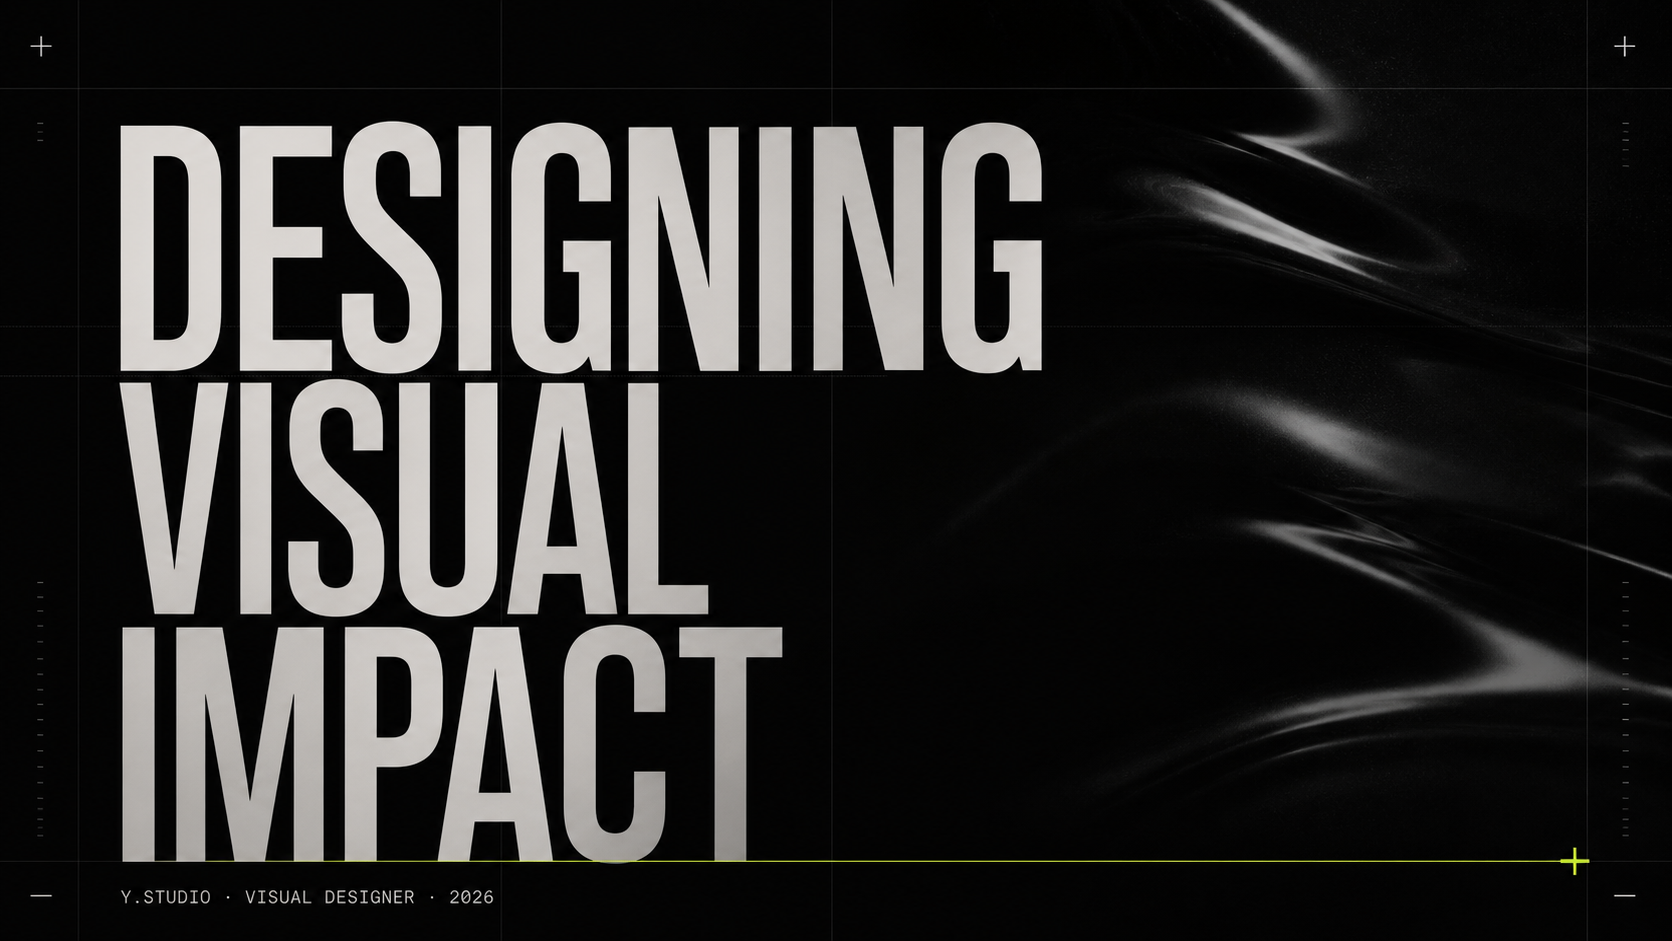
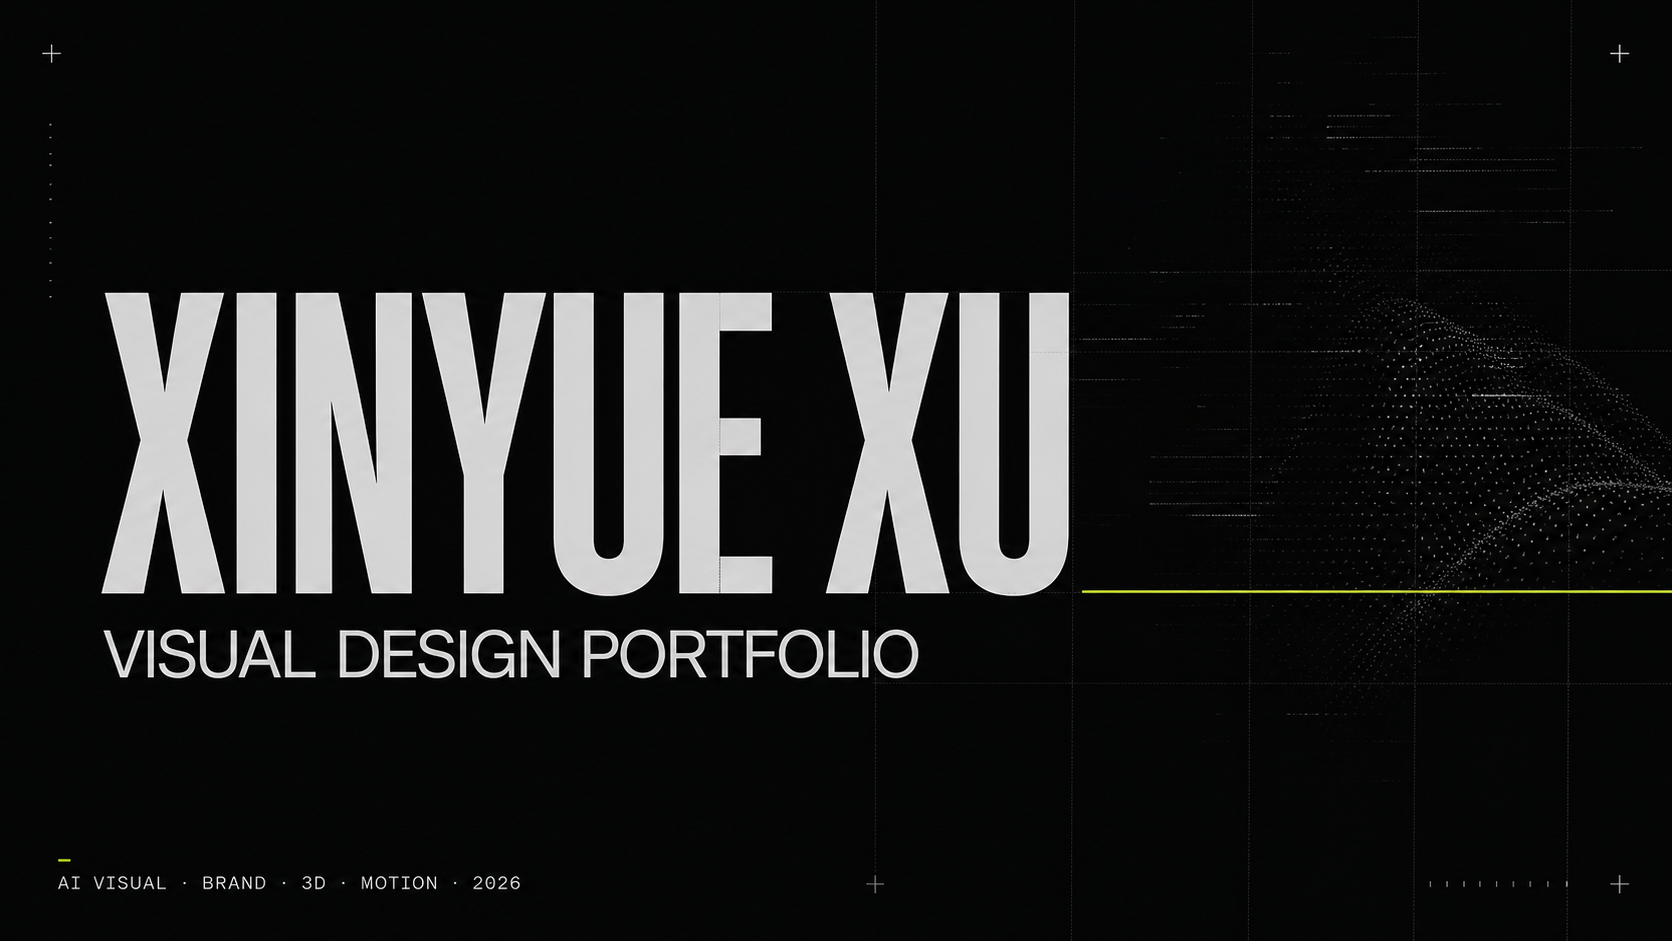
Personalize portfolio with resume content

diff --git a/app/page.tsx b/app/page.tsx
@@ -5,32 +5,39 @@ import { useEffect, useState } from "react";
 const projects = [
   {
     id: "01",
-    title: "NEBULA / 数字艺术节",
-    type: "VISUAL IDENTITY · 2025",
-    image: "https://assets.lummi.ai/assets/QmbDDrBcyWzhRj5HkeU3eM2N1CQVfAuMb2zAj3t34mfAsx",
+    title: "AI 电商视觉自动化系统",
+    type: "AI WORKFLOW · E-COMMERCE",
+    image: "/portfolio/ai-visual-system.jpg",
     size: "wide",
   },
   {
     id: "02",
-    title: "VOID / 时装视觉实验",
-    type: "ART DIRECTION · 2024",
-    image: "https://assets.lummi.ai/assets/Qmd9cGcj7NPdjKh4fwH8wdiKyECKMRmLkj22ZAyDzrhhHP",
+    title: "蛮蛮 / 原创 IP 视觉设计",
+    type: "IP DESIGN · 3D VISUAL",
+    image: "/portfolio/manman-ip.jpg",
     size: "tall",
   },
   {
     id: "03",
-    title: "SYNTH / 品牌焕新",
-    type: "BRAND SYSTEM · 2024",
-    image: "https://assets.lummi.ai/assets/QmTqMzCZnrcdhcCXiLUkKJowTH9KuwWgrLoPeMcZcbGpro",
+    title: "豪士豪麦 / 品牌整合传播",
+    type: "BRAND CAMPAIGN · VISUAL DESIGN",
+    image: "/portfolio/haoshi-brand.jpg",
     size: "standard",
+  },
+  {
+    id: "04",
+    title: "雾隐岛 / UE5 场景叙事",
+    type: "UE5 ENVIRONMENT · GAME VISUAL",
+    image: "/portfolio/foggy-island.jpg",
+    size: "wide",
   },
 ];
 
 const strengths = [
-  ["01", "视觉策略", "从品牌语境出发，将抽象目标转译为清晰、有辨识度的视觉方向。"],
-  ["02", "创意概念", "以概念驱动设计，在克制的系统中创造令人记住的视觉瞬间。"],
-  ["03", "品牌系统", "建立可持续延展的字体、色彩、图形与影像规范，保持跨媒介一致性。"],
-  ["04", "动态叙事", "用节奏、镜头与交互增强信息层级，让品牌在数字空间里真正运动起来。"],
+  ["01", "AI 视觉工作流", "熟练运用 ComfyUI、WebUI 与 Agent 工作流，将 AI 生成能力接入真实设计产出链路。"],
+  ["02", "复合视觉能力", "覆盖平面、三维、动效、UI 原型与视频包装，可独立完成从主视觉到延展物料的交付。"],
+  ["03", "品牌与电商", "具备活动主视觉、电商主图、直播封面与可复用模板体系的实战经验。"],
+  ["04", "逻辑与执行", "目标导向、自律高效，能够拆解复杂问题、预判风险并持续复盘优化工作方法。"],
 ];
 
 export default function Home() {
@@ -47,7 +54,7 @@ export default function Home() {
     <main>
       <header className={`nav-wrap ${scrolled ? "is-scrolled" : ""}`}>
         <nav className="nav shell" aria-label="主导航">
-          <a className="brand" href="#top" aria-label="回到首页"><span>Y.</span>STUDIO</a>
+          <a className="brand" href="#top" aria-label="回到首页"><span>X.</span>XINYUE</a>
           <div className="nav-links">
             <a href="#about">关于</a>
             <a href="#work">项目</a>
@@ -64,10 +71,10 @@ export default function Home() {
         <div className="hero-shade" />
         <div className="hero-grid" />
         <div className="hero-content shell">
-          <div className="hero-kicker"><span>Independent visual designer</span><span>Shanghai · China</span></div>
-          <h1><span>DESIGNING</span><span className="outline">VISUAL IMPACT</span></h1>
+          <div className="hero-kicker"><span>Visual designer · AI creator</span><span>Beijing · China</span></div>
+          <h1><span>XINYUE XU</span><span className="outline">VISUAL DESIGN</span></h1>
           <div className="hero-bottom">
-            <p>以策略为起点，以视觉为语言。<br />为品牌构建清晰、前沿且耐看的视觉体验。</p>
+            <p>融合设计与 AI 生成技术，<br />把视觉创意转化为稳定、高效的真实产出。</p>
             <a className="round-link" href="#work" aria-label="浏览精选项目"><span>↘</span><small>VIEW WORK</small></a>
           </div>
         </div>
@@ -78,26 +85,31 @@ export default function Home() {
         <div className="section-label"><span>01</span><p>ABOUT / 个人经历</p></div>
         <div className="about-layout">
           <div className="portrait-wrap">
-            <img src="https://images.squarespace-cdn.com/content/v1/52d59ef8e4b077750335a1d0/1467095664488-VORAQ2KK3NFJHW3SKGRQ/image-asset.jpeg" alt="视觉设计师肖像占位图" />
-            <span className="portrait-tag">OPEN FOR PROJECTS · 2026</span>
+            <img src="/portfolio/xuxinyue-portrait.jpg" alt="视觉设计师许馨月" />
+            <span className="portrait-tag">AVAILABLE FOR VISUAL DESIGN ROLE</span>
           </div>
           <div className="about-copy">
-            <p className="eyebrow">HELLO, I&apos;M A VISUAL DESIGNER.</p>
-            <h2>让视觉不止于<br /><em>好看。</em></h2>
-            <p className="intro">我是一名专注于品牌视觉、数字体验与创意表达的视觉设计师。擅长在策略与美学之间寻找平衡，把复杂的信息转化为简洁、准确、有情绪的设计语言。</p>
+            <p className="eyebrow">HELLO, I&apos;M XINYUE XU.</p>
+            <h2>设计专业出身，<br /><em>用 AI 放大创意。</em></h2>
+            <p className="intro">北京科技大学视觉传达设计本科在读。系统掌握平面、三维、动效与 UI 原型设计，熟练运用 ComfyUI、WebUI 与 Agent 工作流，将 AI 生成能力融入从主视觉、物料、海报到视频包装的完整产出链路。</p>
             <div className="meta-grid">
-              <div><small>BASED IN</small><strong>SHANGHAI, CN</strong></div>
-              <div><small>CONTACT</small><a href="mailto:hello@yourstudio.design">HELLO@YOURSTUDIO.DESIGN ↗</a></div>
-              <div><small>FOCUS</small><strong>BRAND / DIGITAL / MOTION</strong></div>
-              <div><small>LANGUAGE</small><strong>中文 / ENGLISH</strong></div>
+              <div><small>EDUCATION</small><strong>北京科技大学 · 视觉传达设计</strong></div>
+              <div><small>CONTACT</small><a href="mailto:xuxinyue_2027@163.com">XUXINYUE_2027@163.COM ↗</a></div>
+              <div><small>FOCUS</small><strong>AI VISUAL / BRAND / 3D / MOTION</strong></div>
+              <div><small>PHONE</small><a href="tel:+8613261482033">132 6148 2033</a></div>
+            </div>
+            <div className="experience-list">
+              <div><span>2026.07—09</span><strong>金山夏令营</strong><p>AI 视觉生成工作流实践</p></div>
+              <div><span>2025.10—2026.02</span><strong>新东方教育科技集团</strong><p>视觉设计实习生</p></div>
+              <div><span>2025.05—09</span><strong>北京与爱为舞科技有限公司</strong><p>平面设计实习生</p></div>
             </div>
           </div>
         </div>
         <div className="stats">
-          <div><strong>06<sup>+</sup></strong><span>YEARS EXPERIENCE<br />设计经验</span></div>
-          <div><strong>48<sup>+</sup></strong><span>PROJECTS DELIVERED<br />落地项目</span></div>
-          <div><strong>12</strong><span>BRANDS SERVED<br />合作品牌</span></div>
-          <div><strong>08</strong><span>INDUSTRY AWARDS<br />设计奖项</span></div>
+          <div><strong>03</strong><span>INTERNSHIPS<br />实习经历</span></div>
+          <div><strong>04</strong><span>CORE PROJECTS<br />核心项目</span></div>
+          <div><strong>02</strong><span>DESIGN AWARDS<br />项目奖项</span></div>
+          <div><strong>05<sup>+</sup></strong><span>AI / 3D TOOLS<br />创作工具</span></div>
         </div>
       </section>
 
@@ -106,7 +118,7 @@ export default function Home() {
           <div className="section-label"><span>02</span><p>SELECTED WORK / 精选项目</p></div>
           <div className="work-head">
             <h2>SELECTED<br /><em>WORKS</em></h2>
-            <p>一组关于品牌、文化与数字体验的视觉实践。<br />每个项目都是一次新的观察与重构。</p>
+            <p>从 AI 电商生产链路、原创 IP、品牌传播到 UE5 场景，<br />探索技术、叙事与商业视觉之间的连接。</p>
           </div>
         </div>
         <div className="project-list shell">
@@ -127,7 +139,7 @@ export default function Home() {
 
       <section className="strengths section shell" id="strengths">
         <div className="section-label"><span>03</span><p>CAPABILITIES / 个人优势</p></div>
-        <div className="strength-head"><h2>HOW I<br /><em>CREATE</em></h2><p>不是单一风格的复制，<br />而是为每个问题寻找准确的视觉答案。</p></div>
+        <div className="strength-head"><h2>HOW I<br /><em>CREATE</em></h2><p>兼顾创意表现与生产效率，<br />让前沿工具真正服务于设计结果。</p></div>
         <div className="strength-grid">
           {strengths.map(([id, title, text]) => (
             <article className="strength-card" key={id}>
@@ -141,13 +153,13 @@ export default function Home() {
         <div className="contact-glow" />
         <div className="shell contact-inner">
           <div className="section-label"><span>04</span><p>CONTACT / 保持联系</p></div>
-          <div className="availability"><i /> AVAILABLE FOR SELECTED PROJECTS</div>
-          <h2>LET&apos;S MAKE<br /><em>SOMETHING</em> MATTER.</h2>
-          <a className="email" href="mailto:hello@yourstudio.design">HELLO@YOURSTUDIO.DESIGN <span>↗</span></a>
+          <div className="availability"><i /> OPEN TO VISUAL DESIGN OPPORTUNITIES</div>
+          <h2>LET&apos;S CREATE<br /><em>THE NEXT</em> VISUAL.</h2>
+          <a className="email" href="mailto:xuxinyue_2027@163.com">XUXINYUE_2027@163.COM <span>↗</span></a>
           <div className="contact-bottom">
-            <p>视觉设计 · 品牌系统 · 数字体验 · 动态视觉</p>
-            <div><a href="#">BEHANCE ↗</a><a href="#">INSTAGRAM ↗</a><a href="#">LINKEDIN ↗</a></div>
-            <p>© 2026 Y.STUDIO<br />ALL RIGHTS RESERVED</p>
+            <p>AI 视觉 · 品牌设计 · 三维动效 · UI 原型</p>
+            <div><a href="mailto:xuxinyue_2027@163.com">EMAIL ↗</a><a href="tel:+8613261482033">PHONE ↗</a><a href="#work">PORTFOLIO ↗</a></div>
+            <p>© 2026 XINYUE XU<br />ALL RIGHTS RESERVED</p>
           </div>
         </div>
       </footer>

diff --git a/app/globals.css b/app/globals.css
@@ -4,3 +4,4 @@
 
 @media(max-width:1000px){:root{--shell:calc(100vw - 40px)}.nav-links{display:none}.nav{grid-template-columns:1fr 1fr}.hero h1{font-size:15vw}.about-layout{grid-template-columns:1fr}.portrait-wrap{max-width:none}.stats{grid-template-columns:1fr 1fr}.strength-grid{grid-template-columns:1fr 1fr}.project-list{grid-template-columns:1fr}.project.standard{margin:0}.project.wide{grid-column:auto}.contact-bottom{grid-template-columns:1fr;gap:20px}.contact-bottom div{justify-content:flex-start}.contact-bottom p:last-child{text-align:left}}@media(max-width:620px){.section{padding:95px 0}.hero{min-height:680px}.hero-kicker{width:100%}.hero h1 .outline{margin-left:0}.round-link{width:90px;height:90px}.about-copy h2,.work-head h2,.strength-head h2{font-size:16vw}.portrait-wrap img{height:520px}.meta-grid,.stats{grid-template-columns:1fr}.meta-grid div{border-right:0!important;padding-left:0!important}.stats>div{border-right:0;border-bottom:1px solid var(--line)}.work-head,.strength-head{display:block}.work-head p,.strength-head p{margin-top:35px}.project-image,.project.tall .project-image,.project.standard .project-image{height:520px}.strength-grid{grid-template-columns:1fr}.strength-card{min-height:400px}.contact h2{font-size:16vw}.project-info{align-items:flex-start;gap:15px}.project-info p{text-align:right}}
 @media(prefers-reduced-motion:reduce){html{scroll-behavior:auto}*{transition:none!important}}
+.experience-list{margin-top:34px;border-top:1px solid var(--line)}.experience-list div{display:grid;grid-template-columns:150px 1fr 1fr;gap:20px;align-items:center;padding:18px 0;border-bottom:1px solid var(--line)}.experience-list span{font-size:9px;letter-spacing:.08em;color:var(--acid)}.experience-list strong{font-size:12px;font-weight:500}.experience-list p{margin:0;font-size:11px;color:#777}.project.wide:last-child{margin-top:35px}@media(max-width:620px){.experience-list div{grid-template-columns:1fr;gap:6px}}

diff --git a/app/layout.tsx b/app/layout.tsx
@@ -2,18 +2,18 @@ import type { Metadata } from "next";
 import "./globals.css";
 
 export const metadata: Metadata = {
-  title: "Y.Studio — Visual Designer Portfolio",
-  description: "视觉设计师个人作品集，聚焦品牌视觉、数字体验与动态叙事。",
+  title: "许馨月 — 视觉设计师作品集",
+  description: "许馨月的视觉设计作品集，聚焦 AI 视觉工作流、品牌、电商、三维与动态设计。",
   openGraph: {
-    title: "Y.Studio — Visual Designer Portfolio",
-    description: "Designing visual impact through brand, digital and motion.",
+    title: "许馨月 — 视觉设计师作品集",
+    description: "AI visual workflows, brand, 3D and motion design.",
     type: "website",
-    images: [{ url: "/og.png", width: 2184, height: 941, alt: "Designing Visual Impact — Y.Studio" }],
+    images: [{ url: "/og.png", width: 2184, height: 941, alt: "许馨月视觉设计作品集" }],
   },
   twitter: {
     card: "summary_large_image",
-    title: "Y.Studio — Visual Designer Portfolio",
-    description: "Designing visual impact through brand, digital and motion.",
+    title: "许馨月 — 视觉设计师作品集",
+    description: "AI visual workflows, brand, 3D and motion design.",
     images: ["/og.png"],
   },
 };
